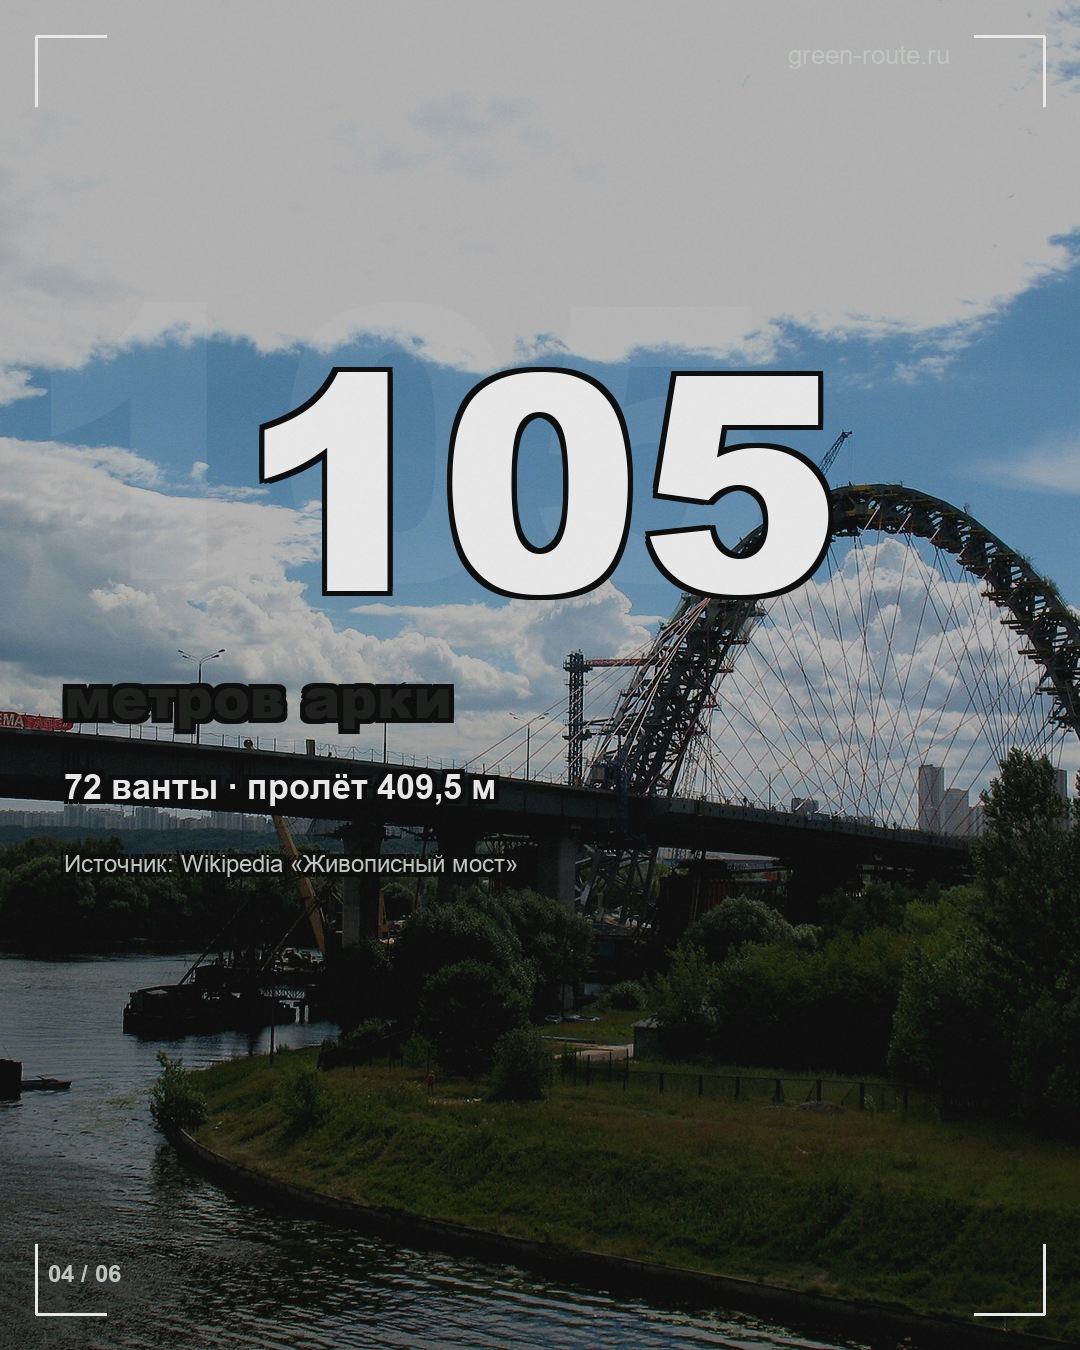
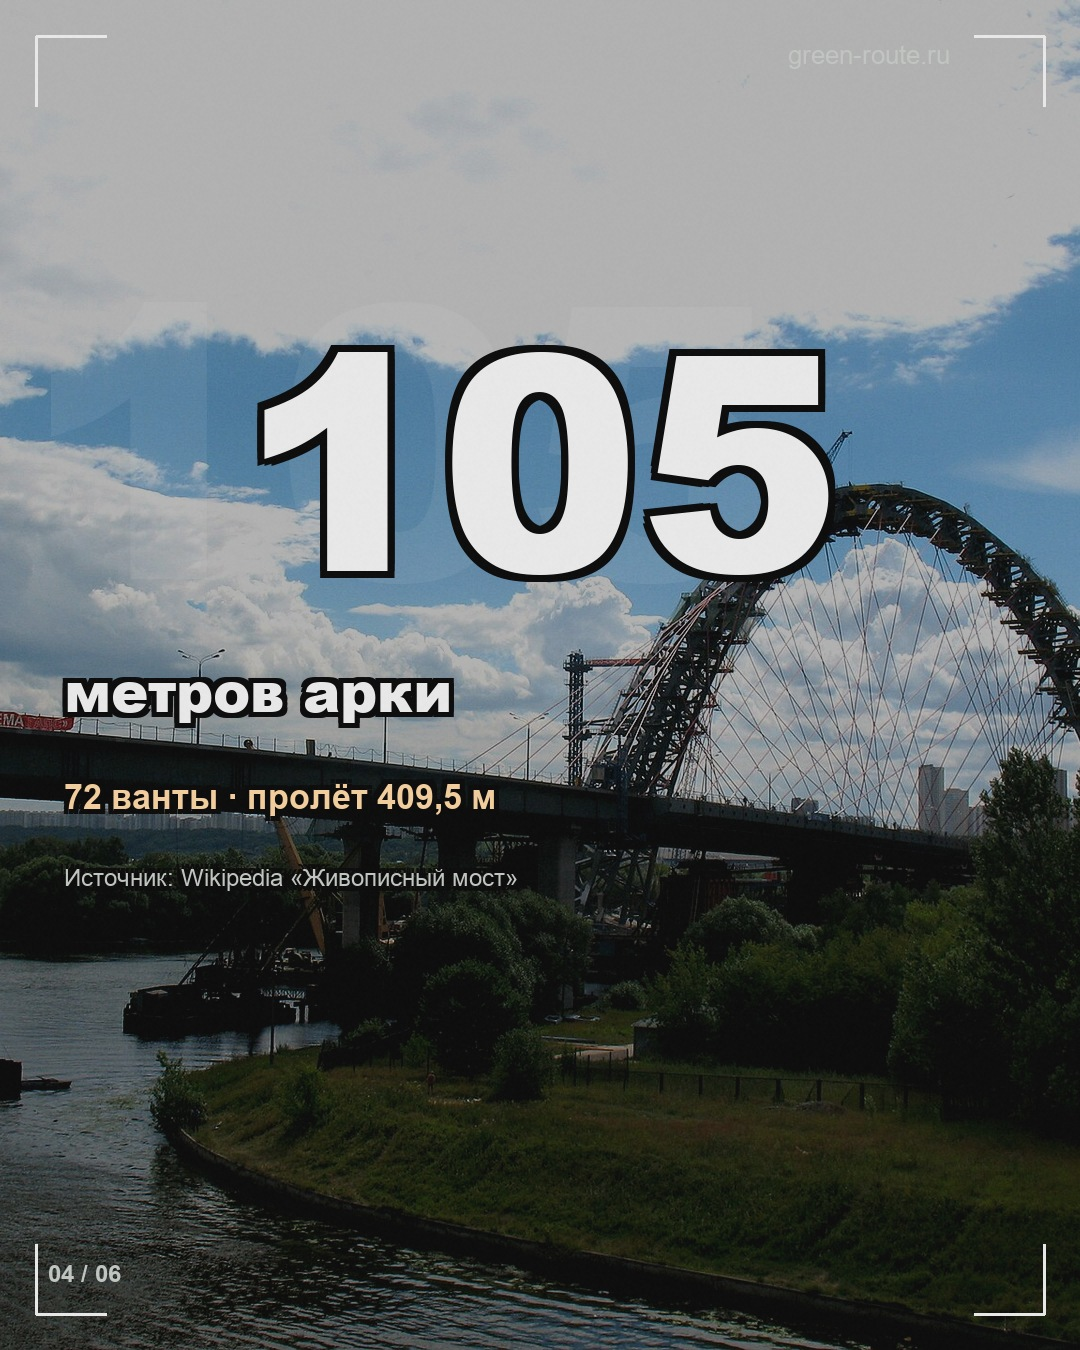
fix(instagram): force cream 105, larger vertical gaps on fact slide

diff --git a/_previews/instagram-carousel/render_story_variants.py b/_previews/instagram-carousel/render_story_variants.py
@@ -220,17 +220,33 @@ def draw_safe(
     audit: list,
     align="left",
     line_gap=1.08,
+    force_fg: bool = False,
 ) -> tuple[Image.Image, int]:
+    """force_fg=True: never flip to black (display numbers on photo)."""
     assert_no_banned(text, label)
     probe = ImageDraw.Draw(base)
     tw, th = text_size(probe, text, fnt, max_w, line_gap)
     x, y = xy
     box = (x, y, x + (max_w if align == "right" else max(tw, 40)), y + max(th, fnt.size))
-    img, fg, report = ensure_contrast(base, box, prefer_fg, large_text=fnt.size >= 36, allow_plate=False)
+    if force_fg:
+        fg = prefer_fg
+        report = sample_region(base, box, fg, min_ratio=3.0)
+        img = base
+    else:
+        img, fg, report = ensure_contrast(base, box, prefer_fg, large_text=fnt.size >= 36, allow_plate=False)
+        # Never paint near-black display text on photos — stroke carries contrast
+        if relative_luma(fg) < 0.35:
+            fg = CREAM if relative_luma(prefer_fg) > 0.35 else prefer_fg
     audit.append(f"{label}: {report.worst_ratio:.2f}:1 {'OK' if report.passes else 'WEAK'}")
     d = ImageDraw.Draw(img, "RGBA")
-    y2 = draw_text_stroke(d, text, xy, fnt, fg, max_w, align=align, line_gap=line_gap)
+    stroke = 7 if fnt.size >= 80 else 5
+    y2 = draw_text_stroke(d, text, xy, fnt, fg, max_w, align=align, line_gap=line_gap, stroke=stroke)
     return img, y2
+
+
+def relative_luma(rgb) -> float:
+    r, g, b = rgb[0] / 255, rgb[1] / 255, rgb[2] / 255
+    return 0.2126 * r + 0.7152 * g + 0.0722 * b
 
 
 def frame_corners(draw, color=(*CREAM, 90), inset=36, length=70, width=3):
@@ -496,76 +512,76 @@ def render_variant(v: Variant, strip: Image.Image, detail: Image.Image) -> dict:
     c4 = COPY[4]
 
     # Fixed vertical advances — glyph metrics alone leave "105" visually crushed into unit
-    GAP_NUM_UNIT = 96
-    GAP_UNIT_STATS = 56
-    GAP_STATS_SRC = 48
+    GAP_NUM_UNIT = 110
+    GAP_UNIT_STATS = 72
+    GAP_STATS_SRC = 52
 
     if v.giant_center_fact:
         fnum = font(FONT_BLACK, 300)
         probe = ImageDraw.Draw(s_rgb)
         nw = int(probe.textlength(c4["number"], font=fnum))
         nx = (W - nw) // 2
-        num_y = 260
+        num_y = 240
         s_rgb, _ = draw_safe(
             s_rgb, c4["number"], (nx, num_y), fnum, CREAM, nw + 20,
-            label="number", audit=audit, line_gap=1.0,
+            label="number", audit=audit, line_gap=1.0, force_fg=True,
         )
         y = num_y + 300 + GAP_NUM_UNIT
         s_rgb, _ = draw_safe(
             s_rgb, c4["unit"], (64, y), font(FONT_BLACK, 56), CREAM, W - 128,
-            label="unit", audit=audit,
+            label="unit", audit=audit, force_fg=True,
         )
         y = y + 56 + GAP_UNIT_STATS
         s_rgb, _ = draw_safe(
             s_rgb, c4["stats"], (64, y), font(FONT_BOLD, 34), GOLD, W - 128,
-            label="stats", audit=audit,
+            label="stats", audit=audit, force_fg=True,
         )
         y = y + 34 + GAP_STATS_SRC
         s_rgb, _ = draw_safe(
             s_rgb, c4["source"], (64, y), font(FONT_REG, 24), MUTED, W - 128,
-            label="source", audit=audit,
+            label="source", audit=audit, force_fg=True,
         )
     elif v.split_fact:
-        num_y = 240
+        num_y = 220
         s_rgb, _ = draw_safe(
-            s_rgb, c4["number"], (36, num_y), font(FONT_BLACK, 260), CREAM, 720,
-            label="number", audit=audit, line_gap=1.0,
+            s_rgb, c4["number"], (36, num_y), font(FONT_BLACK, 280), CREAM, 720,
+            label="number", audit=audit, line_gap=1.0, force_fg=True,
         )
-        y = num_y + 260 + GAP_NUM_UNIT
+        y = num_y + 280 + GAP_NUM_UNIT
         s_rgb, _ = draw_safe(
             s_rgb, c4["unit"], (48, y), font(FONT_BLACK, 52), CREAM, 700,
-            label="unit", audit=audit,
+            label="unit", audit=audit, force_fg=True,
         )
         s_rgb, y = draw_safe(
-            s_rgb, c4["stats"], (48, 1000), font(FONT_BOLD, 32), GOLD, W - 96,
-            label="stats", audit=audit, align="right",
+            s_rgb, c4["stats"], (48, 1020), font(FONT_BOLD, 32), GOLD, W - 96,
+            label="stats", audit=audit, align="right", force_fg=True,
         )
         s_rgb, _ = draw_safe(
             s_rgb, c4["source"], (48, y + GAP_STATS_SRC), font(FONT_REG, 24), MUTED, W - 96,
-            label="source", audit=audit, align="right",
+            label="source", audit=audit, align="right", force_fg=True,
         )
         ImageDraw.Draw(s_rgb, "RGBA").rectangle((48, 280, 58, 560), fill=WARM)
     else:
-        num_size = 260
-        num_y = slot.y
+        num_size = 280
+        num_y = min(slot.y, 320)
         s_rgb, _ = draw_safe(
             s_rgb, c4["number"], (slot.x, num_y), font(FONT_BLACK, num_size), CREAM, slot.max_w,
-            label="number", audit=audit, line_gap=1.0, align=slot.align,
+            label="number", audit=audit, line_gap=1.0, align=slot.align, force_fg=True,
         )
         y = num_y + num_size + GAP_NUM_UNIT
         s_rgb, _ = draw_safe(
             s_rgb, c4["unit"], (slot.x, y), font(FONT_BLACK, 54), CREAM, slot.max_w,
-            label="unit", audit=audit, align=slot.align,
+            label="unit", audit=audit, align=slot.align, force_fg=True,
         )
         y = y + 54 + GAP_UNIT_STATS
         s_rgb, _ = draw_safe(
             s_rgb, c4["stats"], (slot.x, y), font(FONT_BOLD, 34), GOLD, slot.max_w,
-            label="stats", audit=audit, align=slot.align,
+            label="stats", audit=audit, align=slot.align, force_fg=True,
         )
         y = y + 34 + GAP_STATS_SRC
         s_rgb, _ = draw_safe(
             s_rgb, c4["source"], (slot.x, y), font(FONT_REG, 24), MUTED, slot.max_w,
-            label="source", audit=audit, align=slot.align,
+            label="source", audit=audit, align=slot.align, force_fg=True,
         )
         if v.frame_text:
             text_frame(ImageDraw.Draw(s_rgb, "RGBA"), (slot.x, num_y, slot.x + 700, y + 40))
